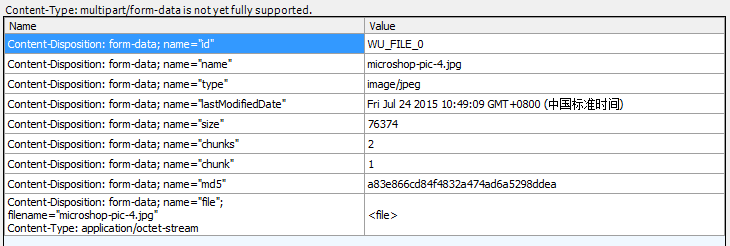
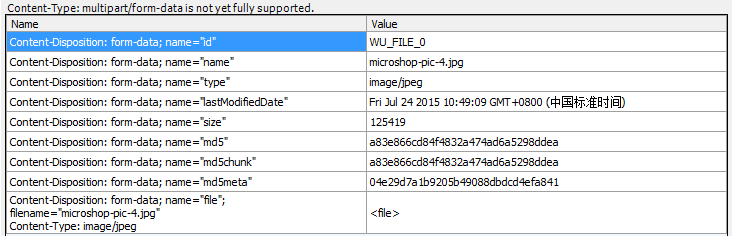
文件上传组件 增加分块md5、文件信息md5，一些错误信息等

Changed region(s): [[0.0, 0.0, 0.9945, 1.0], [0.4822, 0.8602, 0.5425, 0.9195]]

diff --git a/前端公共组件/文件上传/demo/app.js b/前端公共组件/文件上传/demo/app.js
@@ -10,9 +10,11 @@ var express = require('express'),
 
 var bodyParser = require('body-parser');
 var Busboy = require('busboy');
+var md5File = require('md5-file');
 
 
 app.use(bodyParser.urlencoded({extended: true}));
+app.use(express.static(path.join(__dirname, 'public')));
 
 // 查询已经上传的分片文件，客户端将跳过这些分片
 app.get('/checkfile', function(req, res) {
@@ -54,7 +56,8 @@ app.post('/upload', function(req, res){
     // POST数据全部解析完成
     busboy.on('finish', function(err) {
         
-        var retry = 0;
+        var retry = 0,
+            RETRY_LIMIT=5;
 
         // 不分片的文件
         if ( !params.chunk ) {
@@ -71,12 +74,11 @@ app.post('/upload', function(req, res){
                 if ( err ) {
                     console.log('生成part文件出错');
                     console.log(err);
-                    if ( retry++ < 5 ) { // 重命名失败时再尝试几次
-                        setTimeout( rename, 50 );
+                    if ( retry++ < RETRY_LIMIT ) { // 重命名失败时再尝试几次
+                        setTimeout( rename, 500 );
                     }
                     else {
-                        res.writeHead(500, { 'Connection': 'close' });
-                        res.end("0");
+                        res.status(500).send('');
                     }
                     return;
                 }
@@ -99,14 +101,17 @@ app.post('/upload', function(req, res){
             }
 
             if (done) {
-                mergeFile(params, function(filePath) {
-                    res.writeHead(200, { 'Connection': 'close' });
-                    res.end(filePath);
+                mergeFile(params, function(err, filePath) {
+                    if (err) {
+                        res.status(500).send('');
+                    }
+                    else {
+                        res.status(200).send(filePath);
+                    }
                 });
             }
             else {
-                res.writeHead(200, { 'Connection': 'close' });
-                res.end("");
+                res.status(200).send('');
             }
         }
     });
@@ -128,15 +133,34 @@ function mergeFile(params, callback) {
     
     var chunk = Number(params.chunk);
     var chunks = Number(params.chunks);
+    var curRs = null;
 
-    // 清理文件
+    // 校验，清理分片文件
     fileWriteStream.on('close',function(){
-      callback(targetFile);
-      for (var chunk=0;chunk<chunks; chunk++) {
-        fs.unlink( getPartPah(params, chunk) );
-      }
+        md5File(targetFile, function(err, md5){
+            if ( err ) callback(err);
+            if (md5 === params.md5) {
+                callback(null, targetFile);
+                for (var chunk=0;chunk<chunks; chunk++) {
+                    fs.unlink( getPartPah(params, chunk) );
+                }
+            }
+            else {
+                console.log('校验失败'+md5);
+                callback('校验失败'+md5);
+            }
+        });
     });
 
+    fileWriteStream.on('error', function(err){
+        callback(err);
+        console.log(err);
+    });
+
+    // 文件写入太快时会读取暂停，写入完成恢复
+    fileWriteStream.on('drain', function() {
+        curRs && curRs.resume();
+    });
 
     // 依次合并文件
     function doWrite(chunk) {
@@ -146,22 +170,20 @@ function mergeFile(params, callback) {
         }
 
         var rs = fs.createReadStream( getPartPah(params, chunk) );
+        curRs = rs;
+
         rs.on('data', function( data ) {
             if ( fileWriteStream.write(data) === false ) { // 如果没有写完，暂停读取流
-                //rs.pause();
+                rs.pause();
             }
-        });
-
-        rs.on('drain', function() { // 写完后，继续读取
-            //readStream.resume();
-        });
+        });        
 
         rs.on('end',function(){
             doWrite(++chunk);
         });
 
-        rs.on('err',function(err){
-            // doWrite(++chunk);
+        rs.on('error', function(err){
+            callback(err);
             console.log(err);
         });
     }

diff --git a/前端公共组件/文件上传/demo/public/md5.min.js b/前端公共组件/文件上传/demo/public/md5.min.js
@@ -1,0 +1,1 @@
+!function(a){"use strict";function b(a,b){var c=(65535&a)+(65535&b),d=(a>>16)+(b>>16)+(c>>16);return d<<16|65535&c}function c(a,b){return a<<b|a>>>32-b}function d(a,d,e,f,g,h){return b(c(b(b(d,a),b(f,h)),g),e)}function e(a,b,c,e,f,g,h){return d(b&c|~b&e,a,b,f,g,h)}function f(a,b,c,e,f,g,h){return d(b&e|c&~e,a,b,f,g,h)}function g(a,b,c,e,f,g,h){return d(b^c^e,a,b,f,g,h)}function h(a,b,c,e,f,g,h){return d(c^(b|~e),a,b,f,g,h)}function i(a,c){a[c>>5]|=128<<c%32,a[(c+64>>>9<<4)+14]=c;var d,i,j,k,l,m=1732584193,n=-271733879,o=-1732584194,p=271733878;for(d=0;d<a.length;d+=16)i=m,j=n,k=o,l=p,m=e(m,n,o,p,a[d],7,-680876936),p=e(p,m,n,o,a[d+1],12,-389564586),o=e(o,p,m,n,a[d+2],17,606105819),n=e(n,o,p,m,a[d+3],22,-1044525330),m=e(m,n,o,p,a[d+4],7,-176418897),p=e(p,m,n,o,a[d+5],12,1200080426),o=e(o,p,m,n,a[d+6],17,-1473231341),n=e(n,o,p,m,a[d+7],22,-45705983),m=e(m,n,o,p,a[d+8],7,1770035416),p=e(p,m,n,o,a[d+9],12,-1958414417),o=e(o,p,m,n,a[d+10],17,-42063),n=e(n,o,p,m,a[d+11],22,-1990404162),m=e(m,n,o,p,a[d+12],7,1804603682),p=e(p,m,n,o,a[d+13],12,-40341101),o=e(o,p,m,n,a[d+14],17,-1502002290),n=e(n,o,p,m,a[d+15],22,1236535329),m=f(m,n,o,p,a[d+1],5,-165796510),p=f(p,m,n,o,a[d+6],9,-1069501632),o=f(o,p,m,n,a[d+11],14,643717713),n=f(n,o,p,m,a[d],20,-373897302),m=f(m,n,o,p,a[d+5],5,-701558691),p=f(p,m,n,o,a[d+10],9,38016083),o=f(o,p,m,n,a[d+15],14,-660478335),n=f(n,o,p,m,a[d+4],20,-405537848),m=f(m,n,o,p,a[d+9],5,568446438),p=f(p,m,n,o,a[d+14],9,-1019803690),o=f(o,p,m,n,a[d+3],14,-187363961),n=f(n,o,p,m,a[d+8],20,1163531501),m=f(m,n,o,p,a[d+13],5,-1444681467),p=f(p,m,n,o,a[d+2],9,-51403784),o=f(o,p,m,n,a[d+7],14,1735328473),n=f(n,o,p,m,a[d+12],20,-1926607734),m=g(m,n,o,p,a[d+5],4,-378558),p=g(p,m,n,o,a[d+8],11,-2022574463),o=g(o,p,m,n,a[d+11],16,1839030562),n=g(n,o,p,m,a[d+14],23,-35309556),m=g(m,n,o,p,a[d+1],4,-1530992060),p=g(p,m,n,o,a[d+4],11,1272893353),o=g(o,p,m,n,a[d+7],16,-155497632),n=g(n,o,p,m,a[d+10],23,-1094730640),m=g(m,n,o,p,a[d+13],4,681279174),p=g(p,m,n,o,a[d],11,-358537222),o=g(o,p,m,n,a[d+3],16,-722521979),n=g(n,o,p,m,a[d+6],23,76029189),m=g(m,n,o,p,a[d+9],4,-640364487),p=g(p,m,n,o,a[d+12],11,-421815835),o=g(o,p,m,n,a[d+15],16,530742520),n=g(n,o,p,m,a[d+2],23,-995338651),m=h(m,n,o,p,a[d],6,-198630844),p=h(p,m,n,o,a[d+7],10,1126891415),o=h(o,p,m,n,a[d+14],15,-1416354905),n=h(n,o,p,m,a[d+5],21,-57434055),m=h(m,n,o,p,a[d+12],6,1700485571),p=h(p,m,n,o,a[d+3],10,-1894986606),o=h(o,p,m,n,a[d+10],15,-1051523),n=h(n,o,p,m,a[d+1],21,-2054922799),m=h(m,n,o,p,a[d+8],6,1873313359),p=h(p,m,n,o,a[d+15],10,-30611744),o=h(o,p,m,n,a[d+6],15,-1560198380),n=h(n,o,p,m,a[d+13],21,1309151649),m=h(m,n,o,p,a[d+4],6,-145523070),p=h(p,m,n,o,a[d+11],10,-1120210379),o=h(o,p,m,n,a[d+2],15,718787259),n=h(n,o,p,m,a[d+9],21,-343485551),m=b(m,i),n=b(n,j),o=b(o,k),p=b(p,l);return[m,n,o,p]}function j(a){var b,c="";for(b=0;b<32*a.length;b+=8)c+=String.fromCharCode(a[b>>5]>>>b%32&255);return c}function k(a){var b,c=[];for(c[(a.length>>2)-1]=void 0,b=0;b<c.length;b+=1)c[b]=0;for(b=0;b<8*a.length;b+=8)c[b>>5]|=(255&a.charCodeAt(b/8))<<b%32;return c}function l(a){return j(i(k(a),8*a.length))}function m(a,b){var c,d,e=k(a),f=[],g=[];for(f[15]=g[15]=void 0,e.length>16&&(e=i(e,8*a.length)),c=0;16>c;c+=1)f[c]=909522486^e[c],g[c]=1549556828^e[c];return d=i(f.concat(k(b)),512+8*b.length),j(i(g.concat(d),640))}function n(a){var b,c,d="0123456789abcdef",e="";for(c=0;c<a.length;c+=1)b=a.charCodeAt(c),e+=d.charAt(b>>>4&15)+d.charAt(15&b);return e}function o(a){return unescape(encodeURIComponent(a))}function p(a){return l(o(a))}function q(a){return n(p(a))}function r(a,b){return m(o(a),o(b))}function s(a,b){return n(r(a,b))}function t(a,b,c){return b?c?r(b,a):s(b,a):c?p(a):q(a)}"function"==typeof define&&define.amd?define(function(){return t}):a.md5=t}(this);

diff --git a/前端公共组件/文件上传/demo/public/upload.html b/前端公共组件/文件上传/demo/public/upload.html
@@ -3,7 +3,7 @@
 <head>
 <meta http-equiv="Content-Type" content="text/html; charset=UTF-8">
 
-<link rel="stylesheet" type="text/css" href="http://res.hzins.com/web/public/webuploader/webuploader.css">
+<link rel="stylesheet" type="text/css" href="webuploader/webuploader.css">
 <style>
 body,ul,li,p { padding:0; margin: 0;}
 ul, li { list-style: none;}
@@ -40,7 +40,8 @@ ul, li { list-style: none;}
 </div>
 
 <script type="text/javascript" src="http://res.hzins.com/long/public/framework/jquery/jquery-1.8.3.min.js"></script>
-<script type="text/javascript" src="http://res.hzins.com/web/public/webuploader/webuploader.js"></script>
+<script type="text/javascript" src="/md5.min.js"></script>
+<script type="text/javascript" src="webuploader/webuploader.js"></script>
 <script type="text/javascript">
 (function() {
 var blockUplated = {};
@@ -52,16 +53,22 @@ WebUploader.Uploader.register({
     'before-send': function(block) {
         var deferred = WebUploader.Base.Deferred();
 
+        // 分片md5，可用于校验分片完整性
+        var md5Def = uploader.md5File( block.file, block.start, block.end )
+        .then(function(val) {
+            block.md5chunk = val;
+        });
+
         // 服务器所有分片都存在, 重传最后一片触发合并操作
         if ( block.chunks >0 && block.chunks === block.chunk && isAllPartUploaded( block ) ) {
-            deferred.resolve();
+            md5Def.then( deferred.resolve, deferred.reject );
         }
         // 如果已经上传，则忽略
         else if ( isUploaded(block) ) {
             deferred.reject();
         }
         else {
-            deferred.resolve();
+            md5Def.then( deferred.resolve, deferred.reject );
         }
 
         return deferred.promise();
@@ -72,7 +79,8 @@ WebUploader.Uploader.register({
             owner = this.owner,
             server = me.options.server,
             deferred = WebUploader.Deferred();
-
+        
+        //file.md5='fdf996041fdc5c2782c4d8e1b2eeabfa';
         if (file.md5) {// 文件已经校验过
             md5Done(file.md5);
         }
@@ -117,14 +125,16 @@ WebUploader.Uploader.register({
 
 // uploader配置
 var uploader = WebUploader.create({
-    swf: 'http://res.hzins.com/web/public/webuploader/Uploader.swf',
+    swf: '/webuploader/Uploader.swf',
     server: '/upload',
     pick: '#picker', // 选择文件的按钮。可选。内部根据当前运行是创建，可能是input元素，也可能是flash.
     resize: false,// 不压缩image, 默认如果是jpeg，文件上传前会压缩一把再上传！
+    compress: false,
     chunked: true, // 是否分片
     chunkSize: 52428*100, // 分片大小， 5M
 
-    dnd: '#uploader' // 拖拽
+    dnd: '#uploader', // 拖拽
+    paste: document.body
 });
 
 // 当有文件被添加进队列的时候
@@ -134,8 +144,11 @@ uploader.on( 'fileQueued', function( file ) {
         '<span class="state">(等待上传...)</span>' +
     '</li>' );
 })
-.on( 'uploadBeforeSend', function( a, data, c ) {
-    data.md5 = a.file.md5;
+.on( 'uploadBeforeSend', function( block, data, c ) {
+    var file = block.file;
+    data.md5 = file.md5;
+    data.md5chunk = block.md5chunk;
+    data.md5meta = fileMetaMd5(file);
 })
 .on( 'uploadSuccess', function( file, re ) {
     $('#'+file.id).find(' .state').html('(完成)');
@@ -175,6 +188,11 @@ function isAllPartUploaded( block ) {
         }
     }
     return true;
+}
+
+// 根据文件元信息获取hash key， 文件名、大小、修改时间
+function fileMetaMd5( file ) {
+    return md5(file.name+file.size+file.lastModifiedDate)
 }
 
 })();
